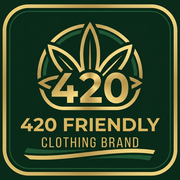
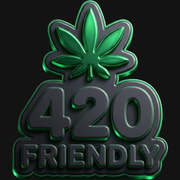
Switch to the 3D 420 Friendly emblem
Replace the gold badge with the 3D render. The studio background is
removed by flood-filling from the image border and using the mark's
green edge-glow as the boundary, so the emblem composites onto the
site's black rather than sitting in a grey box. Exported as WebP with
alpha at 261x300 (~21KB); favicons are re-cut from the same artwork,
padded onto the brand black to stay square.

Intrinsic width/height on the img now match the new aspect ratio, so
the header does not shift while the logo loads.

diff --git a/420-friendly/assets/app.js b/420-friendly/assets/app.js
@@ -209,18 +209,20 @@ function productCardHTML(product) {
 }
 
 /* ===== Brand mark =====
- * The real 420 Friendly badge, exported from the brand artwork. Served as WebP
- * (~18KB) at 320px, which covers 2x on the largest place it appears (the 96px
- * footer). Height is set by the caller; width follows via `w-auto`.
+ * The 3D 420 Friendly emblem. The render's dark background was cut away using
+ * the green edge-glow as a boundary, so the mark sits on any surface; it ships
+ * as WebP with alpha at 261x300 (~21KB), which covers 2x at the largest
+ * placement (the 96px footer). The intrinsic width/height below match the file
+ * and keep the header from shifting while the image loads.
  */
 
 const LOGO_SRC = "assets/logo.webp";
 
 function brandBadgeHTML(heightClass) {
   return (
-    '<img src="' + LOGO_SRC + '" alt="420 Friendly — Clothing Brand" ' +
+    '<img src="' + LOGO_SRC + '" alt="420 Friendly" ' +
     'class="' + heightClass + ' w-auto shrink-0" ' +
-    'width="320" height="320" decoding="async"/>'
+    'width="261" height="300" decoding="async"/>'
   );
 }
 

diff --git a/420-friendly/NOTES.md b/420-friendly/NOTES.md
@@ -30,10 +30,12 @@ page, preserving the original URL.
   and it replaces the typographic art tile automatically.
 - `assets/styles.css` — hand-written styles (art tiles, ticker, toast, badges).
 - `assets/tailwind.css` — **compiled output, do not edit by hand.**
-- `assets/logo.webp` — the brand badge, used in the header and footer. Cut from
-  the 1024px Stitch export: export padding trimmed, resized to 320px, saved as
-  WebP (18KB vs 125KB for the equivalent PNG). `favicon.ico` and
-  `apple-touch-icon.png` come from the same master.
+- `assets/logo.webp` — the 3D brand emblem, used in the header and footer. Cut
+  from the 1024px Stitch render: the dark studio background was removed with a
+  flood fill that used the mark's green edge-glow as the boundary, then resized
+  to 261x300 and saved as WebP with alpha (~21KB). `favicon.ico` and
+  `apple-touch-icon.png` come from the same cutout, padded onto the brand black
+  so the mark stays square and centred rather than letterboxed.
 
 ## Building CSS
 
@@ -65,14 +67,16 @@ Not wired up (deliberate, and labeled as such in the UI):
 
 ## Open decisions
 
-1. ~~The logo is a reproduction.~~ **Resolved** — the real badge was exported
-   from Stitch and now ships as `assets/logo.webp` (320px, ~18KB), with
-   `favicon.ico` and `apple-touch-icon.png` cut from the same master.
+1. ~~The logo is a reproduction.~~ **Resolved** — the 3D emblem is in place,
+   background removed, with matching favicons.
 2. **Header legibility.** At 56px the badge's own lettering is too small to
    read. Options: leave as-is; pair the badge with a "420 FRIENDLY" wordmark
    beside it (recommended); or make the header taller.
-3. **Two greens.** The logo uses a deep forest green; the site accent is
-   electric green (`#00e639`). Options: keep both; move the accent to the
-   logo's green (recommended, makes the logo look native); or go gold-primary.
+3. **Gold vs green.** The 3D emblem is charcoal and green, which sits close to
+   the site's electric green accent (`#00e639`) — that half now matches. The
+   odd one out is the gold (`#e9c349`) on the pill CTAs and active nav, chosen
+   back when the logo was the gold badge. Options: keep gold as a deliberate
+   contrast accent; move CTAs to the logo's green; or keep gold only for
+   small highlights.
 
 Front page layout is settled — Otis likes it. Leave it alone unless asked.
